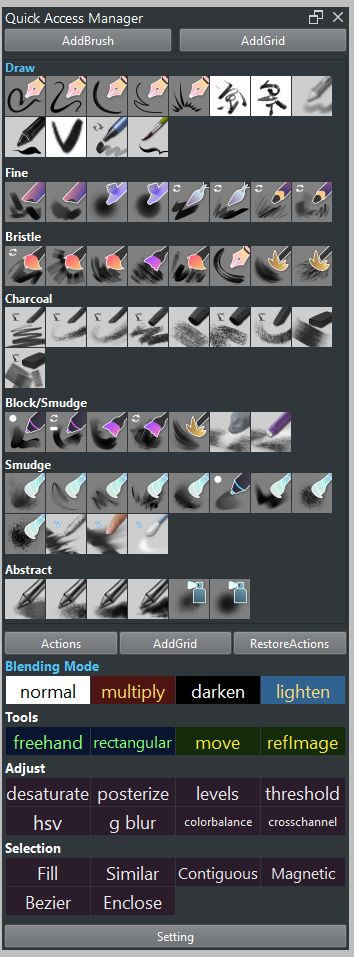
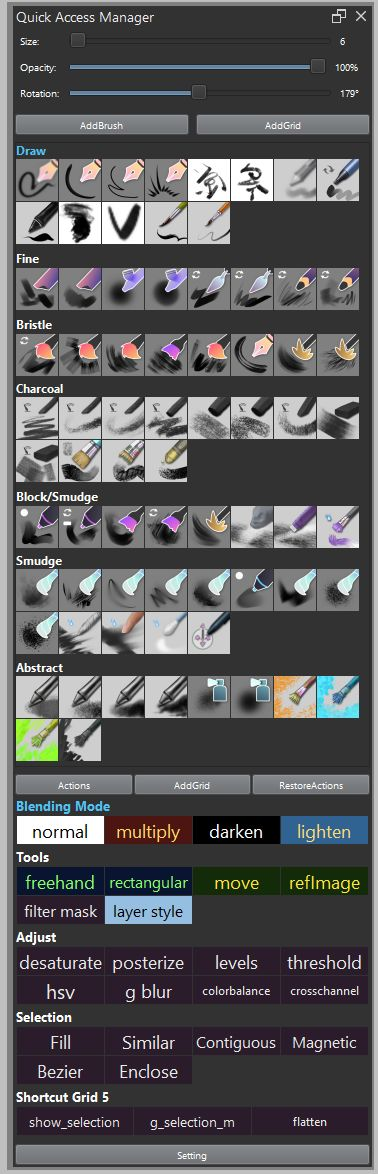
Add a new section to adjust brush setting

diff --git a/quick_access_manager/brush_adjustment.py b/quick_access_manager/brush_adjustment.py
@@ -1,0 +1,275 @@
+from PyQt5.QtWidgets import QWidget, QVBoxLayout, QHBoxLayout, QLabel, QSlider
+from PyQt5.QtCore import Qt, QTimer
+from krita import Krita
+from .preprocess import check_common_config
+
+COMMON_CONFIG = check_common_config()
+
+def get_brush_adjustment_style():
+    color = COMMON_CONFIG["color"]["docker_button_background_color"]
+    font_color = COMMON_CONFIG["color"]["docker_button_font_color"]
+    font_size = COMMON_CONFIG["font"]["docker_button_font_size"]
+    return f"color: {font_color}; font-size: {font_size};"
+
+class BrushAdjustmentWidget(QWidget):
+    def __init__(self, parent=None):
+        super().__init__(parent)
+        self.parent_docker = parent
+        self.current_brush_name = None
+        self.current_brush_size = None
+        self.current_brush_opacity = None  # Add opacity tracking
+        self.current_brush_rotation = None
+        self.updating_from_brush = False  # Flag to prevent recursive updates
+        self.init_ui()
+        
+        # Timer to periodically check for brush changes
+        self.brush_check_timer = QTimer()
+        self.brush_check_timer.timeout.connect(self.check_brush_change)
+        self.brush_check_timer.start(200)  # Check every 200ms for more responsiveness
+        
+    def init_ui(self):
+        layout = QVBoxLayout()
+        layout.setContentsMargins(5, 5, 5, 5)
+        layout.setSpacing(8)  # Reduced spacing for more compact look
+        
+        # Brush Size - compact single line
+        size_layout = QHBoxLayout()
+        size_layout.setSpacing(8)
+        
+        size_label = QLabel("Size:")
+        size_label.setStyleSheet(get_brush_adjustment_style())
+        size_label.setFixedWidth(40)  # Shorter label
+        
+        self.size_slider = QSlider(Qt.Horizontal)
+        self.size_slider.setMinimum(1)
+        self.size_slider.setMaximum(1000)
+        self.size_slider.setValue(10)
+        self.size_slider.valueChanged.connect(self.on_size_changed)
+        
+        self.size_value_label = QLabel("10")
+        self.size_value_label.setFixedWidth(25)
+        self.size_value_label.setStyleSheet(get_brush_adjustment_style())
+        
+        size_layout.addWidget(size_label)
+        size_layout.addWidget(self.size_slider, 1)  # Give slider most of the space
+        size_layout.addWidget(self.size_value_label)
+        layout.addLayout(size_layout)
+        
+        # Brush Opacity - compact single line
+        opacity_layout = QHBoxLayout()
+        opacity_layout.setSpacing(8)
+        
+        opacity_label = QLabel("Opacity:")
+        opacity_label.setStyleSheet(get_brush_adjustment_style())
+        opacity_label.setFixedWidth(40)  # Same width as other labels
+        
+        self.opacity_slider = QSlider(Qt.Horizontal)
+        self.opacity_slider.setMinimum(0)
+        self.opacity_slider.setMaximum(100)
+        self.opacity_slider.setValue(100)
+        self.opacity_slider.valueChanged.connect(self.on_opacity_changed)
+        
+        self.opacity_value_label = QLabel("100%")
+        self.opacity_value_label.setFixedWidth(30)  # Slightly wider for percentage
+        self.opacity_value_label.setStyleSheet(get_brush_adjustment_style())
+        
+        opacity_layout.addWidget(opacity_label)
+        opacity_layout.addWidget(self.opacity_slider, 1)  # Give slider most of the space
+        opacity_layout.addWidget(self.opacity_value_label)
+        layout.addLayout(opacity_layout)
+        
+        # Brush Rotation - compact single line
+        rotation_layout = QHBoxLayout()
+        rotation_layout.setSpacing(8)
+        
+        rotation_label = QLabel("Rotation:")
+        rotation_label.setStyleSheet(get_brush_adjustment_style())
+        rotation_label.setFixedWidth(40)  # Same width as size label
+        
+        self.rotation_slider = QSlider(Qt.Horizontal)
+        self.rotation_slider.setMinimum(0)
+        self.rotation_slider.setMaximum(360)
+        self.rotation_slider.setValue(0)
+        self.rotation_slider.valueChanged.connect(self.on_rotation_changed)
+        
+        self.rotation_value_label = QLabel("0°")
+        self.rotation_value_label.setFixedWidth(25)
+        self.rotation_value_label.setStyleSheet(get_brush_adjustment_style())
+        
+        rotation_layout.addWidget(rotation_label)
+        rotation_layout.addWidget(self.rotation_slider, 1)  # Give slider most of the space
+        rotation_layout.addWidget(self.rotation_value_label)
+        layout.addLayout(rotation_layout)
+        
+        self.setLayout(layout)
+        
+        # Load current brush settings
+        self.update_from_current_brush()
+
+    def check_brush_change(self):
+        """Check if the current brush has changed and update sliders if needed"""
+        app = Krita.instance()
+        if app.activeWindow() and app.activeWindow().activeView():
+            view = app.activeWindow().activeView()
+            try:
+                current_preset = view.currentBrushPreset()
+                if current_preset:
+                    brush_name = current_preset.name()
+                    
+                    # Get current brush properties
+                    current_size = None
+                    current_opacity = None
+                    current_rotation = None
+                    
+                    try:
+                        current_size = view.brushSize()
+                    except:
+                        pass
+                    
+                    try:
+                        current_opacity = view.paintingOpacity()
+                    except:
+                        pass
+                    
+                    try:
+                        current_rotation = view.brushRotation()
+                    except:
+                        pass
+                    
+                    # Check if brush name changed OR if properties changed (for reload preset action)
+                    brush_changed = brush_name != self.current_brush_name
+                    size_changed = current_size != self.current_brush_size
+                    opacity_changed = current_opacity != self.current_brush_opacity
+                    rotation_changed = current_rotation != self.current_brush_rotation
+                    
+                    if brush_changed or size_changed or opacity_changed or rotation_changed:
+                        self.current_brush_name = brush_name
+                        self.current_brush_size = current_size
+                        self.current_brush_opacity = current_opacity
+                        self.current_brush_rotation = current_rotation
+                        self.update_from_current_brush()
+            except:
+                pass
+        
+    def update_from_current_brush(self):
+        """Update sliders to match current brush settings"""
+        if self.updating_from_brush:
+            return
+            
+        self.updating_from_brush = True
+        
+        app = Krita.instance()
+        if app.activeWindow() and app.activeWindow().activeView():
+            view = app.activeWindow().activeView()
+            
+            # Get current brush size directly from the view
+            try:
+                size = view.brushSize()
+                self.size_slider.setValue(int(size))
+                self.size_value_label.setText(str(int(size)))
+                self.current_brush_size = size
+            except:
+                # Fallback to default if brushSize() doesn't work
+                self.size_slider.setValue(10)
+                self.size_value_label.setText("10")
+                self.current_brush_size = 10
+            
+            # Get current opacity
+            try:
+                opacity = view.paintingOpacity()
+                opacity_percent = int(opacity * 100)  # Convert from 0-1 to 0-100
+                self.opacity_slider.setValue(opacity_percent)
+                self.opacity_value_label.setText(f"{opacity_percent}%")
+                self.current_brush_opacity = opacity
+            except:
+                # Fallback if opacity method doesn't work
+                self.opacity_slider.setValue(100)
+                self.opacity_value_label.setText("100%")
+                self.current_brush_opacity = 1.0
+            
+            # Get brush rotation - this might need different approach
+            try:
+                rotation = view.brushRotation()
+                self.rotation_slider.setValue(int(rotation))
+                self.rotation_value_label.setText(f"{int(rotation)}°")
+                self.current_brush_rotation = rotation
+            except:
+                # Fallback if rotation method doesn't exist
+                self.rotation_slider.setValue(0)
+                self.rotation_value_label.setText("0°")
+                self.current_brush_rotation = 0
+        
+        self.updating_from_brush = False
+
+    def on_size_changed(self, value):
+        """Handle brush size change"""
+        if self.updating_from_brush:
+            return
+            
+        self.size_value_label.setText(str(value))
+        self.current_brush_size = value  # Update tracked value
+        
+        app = Krita.instance()
+        if app.activeWindow() and app.activeWindow().activeView():
+            view = app.activeWindow().activeView()
+            try:
+                # Set brush size directly on the view
+                view.setBrushSize(float(value))
+            except Exception as e:
+                print(f"Error setting brush size: {e}")
+
+    def on_opacity_changed(self, value):
+        """Handle brush opacity change"""
+        if self.updating_from_brush:
+            return
+            
+        self.opacity_value_label.setText(f"{value}%")
+        opacity_float = value / 100.0  # Convert from 0-100 to 0-1
+        self.current_brush_opacity = opacity_float  # Update tracked value
+        
+        app = Krita.instance()
+        if app.activeWindow() and app.activeWindow().activeView():
+            view = app.activeWindow().activeView()
+            try:
+                # Set opacity directly on the view
+                view.setPaintingOpacity(opacity_float)
+            except Exception as e:
+                print(f"Error setting brush opacity: {e}")
+
+    def on_rotation_changed(self, value):
+        """Handle brush rotation change"""
+        if self.updating_from_brush:
+            return
+            
+        self.rotation_value_label.setText(f"{value}°")
+        self.current_brush_rotation = value  # Update tracked value
+        
+        app = Krita.instance()
+        if app.activeWindow() and app.activeWindow().activeView():
+            view = app.activeWindow().activeView()
+            try:
+                # Set brush rotation directly on the view
+                view.setBrushRotation(float(value))
+            except Exception as e:
+                print(f"Error setting brush rotation: {e}")
+    
+    def force_update(self):
+        """Force update from current brush - can be called externally"""
+        self.current_brush_name = None
+        self.current_brush_size = None
+        self.current_brush_opacity = None
+        self.current_brush_rotation = None
+        self.update_from_current_brush()
+    
+    def refresh_styles(self):
+        """Refresh styles when settings change"""
+        style = get_brush_adjustment_style()
+        for label in self.findChildren(QLabel):
+            if label.text() not in ["Brush Adjustments"]:  # Skip title
+                label.setStyleSheet(style)
+
+    def closeEvent(self, event):
+        """Clean up timer when widget is closed"""
+        if hasattr(self, 'brush_check_timer'):
+            self.brush_check_timer.stop()
+        super().closeEvent(event)

diff --git a/quick_access_manager/quick_access_manager.py b/quick_access_manager/quick_access_manager.py
@@ -7,6 +7,7 @@ from PyQt5.QtGui import QIcon, QPixmap, QDrag
 from .data_manager import load_grids_data, save_grids_data
 from .shortcut_manager import ShortcutAccessSection, SingleShortcutGridWidget, shortcut_btn_style
 from .preprocess import check_common_config
+from .brush_adjustment import BrushAdjustmentWidget
 
 COMMON_CONFIG = check_common_config()
 spacingBetweenGridsValue = COMMON_CONFIG["layout"]["spacing_between_grids"]
@@ -277,7 +278,16 @@ class QuickAccessDockerWidget(QDockWidget):
         # Create a central widget for the dock
         central_widget = QWidget()
         main_layout = QVBoxLayout()
-               
+
+        #####################################
+        ####   Brush Adjustments Section
+        #####################################
+        self.brush_adjustment_section = BrushAdjustmentWidget(self)
+        main_layout.addWidget(self.brush_adjustment_section)
+
+        #####################################
+        ####   BrushSets Section
+        #####################################
         # First button row (horizontal)
         button_layout_1 = QHBoxLayout()
         
@@ -307,10 +317,15 @@ class QuickAccessDockerWidget(QDockWidget):
         
         main_layout.addWidget(scroll_area)
         
-        # Section 2: Quick Shortcut Access
+        #####################################
+        ####   Quick Shortcut Access Section
+        #####################################
         self.shortcut_section = ShortcutAccessSection(self)
         main_layout.addWidget(self.shortcut_section)
-        
+
+        #####################################
+        ####   Other
+        #####################################
         # Settingボタンを一番下に追加
         setting_btn = QPushButton("Setting")
         setting_btn.setStyleSheet(docker_btn_style())
@@ -396,6 +411,9 @@ class QuickAccessDockerWidget(QDockWidget):
         for btn in self.findChildren(QPushButton):
             if btn.text() in ["AddBrush", "AddGrid", "Setting", "Actions", "RestoreActions"]:
                 btn.setStyleSheet(docker_btn_style())
+        # Brush adjustment section
+        if hasattr(self, "brush_adjustment_section"):
+            self.brush_adjustment_section.refresh_styles()
 
     def _add_grid_ui(self, grid_info):
         grid_container = DraggableGridContainer(grid_info, self)
